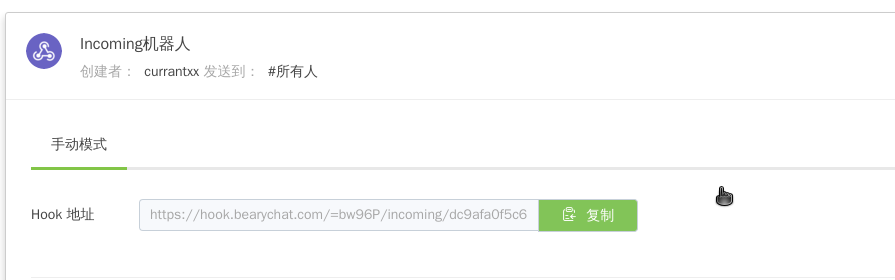
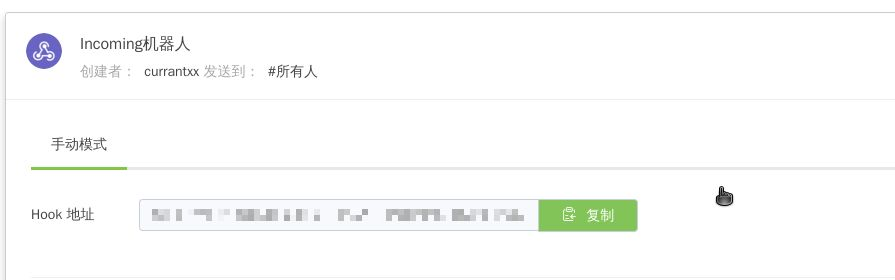
fix(readme): fixes image and adds testing example

diff --git a/README.md b/README.md
@@ -38,11 +38,12 @@ Zabbix 1.8.x 以上(包含 2.2， 2.4和3.x！)
 
 只需要复制上面截图中的**Hook 地址**
 
-    https://hook.bearychat.com/=bw96P/incoming/dc9bfa0f5c6276c25b24ba9a3d393109
+    https://hook.bearychat.com/XXX/incoming/XXXXXXXXXXXXXXXXXXXXXXX
 	
 确认你的`Incoming 机器人`配置没有问题后，修改`bearychat.sh`脚本：
+	
 	# BearyChat incoming web-hook URL
-	url='https://hook.bearychat.com/=bw96P/incoming/dc9bfa0f5c6276c25b24ba9a3d393109'
+	url='https://hook.bearychat.com/XXX/incoming/XXXXXXXXXXXXXXXXXXXXXXX'
 
 ### Zabbix配置
 
@@ -60,10 +61,21 @@ Zabbix 1.8.x 以上(包含 2.2， 2.4和3.x！)
 
 ![](https://raw.githubusercontent.com/bearyinnovative/zabbix-bearychat-alertscript/master/imgs/add-user.png)
 
+### 测试
+
+在配置好脚本（`bearychat.sh`）后，可以在终端运行命令：
+
+    $ bash bearychat.sh 'some-channel' PROBLEM 'Oh no! Something is wrong!'
+    
+然后在`BearyChat`中就能看到一条推送：
+
+![](https://raw.githubusercontent.com/bearyinnovative/zabbix-bearychat-alertscript/master/imgs/test.png)
+
+
 更多信息
 ----------------
-* [Zabbix-Slack-AlertScript](https://github.com/ericoc/zabbix-slack-alertscript)
 * [BearyChat Incoming](https://bearychat.com/integrations/incoming)
+* [Zabbix-Slack-AlertScript](https://github.com/ericoc/zabbix-slack-alertscript)
 * [Zabbix 2.2 custom alertscripts documentation](https://www.zabbix.com/documentation/2.2/manual/config/notifications/media/script)
 * [Zabbix 2.4 custom alertscripts documentation](https://www.zabbix.com/documentation/2.4/manual/config/notifications/media/script)
 * [Zabbix 3.x custom alertscripts documentation](https://www.zabbix.com/documentation/3.0/manual/config/notifications/media/script)
